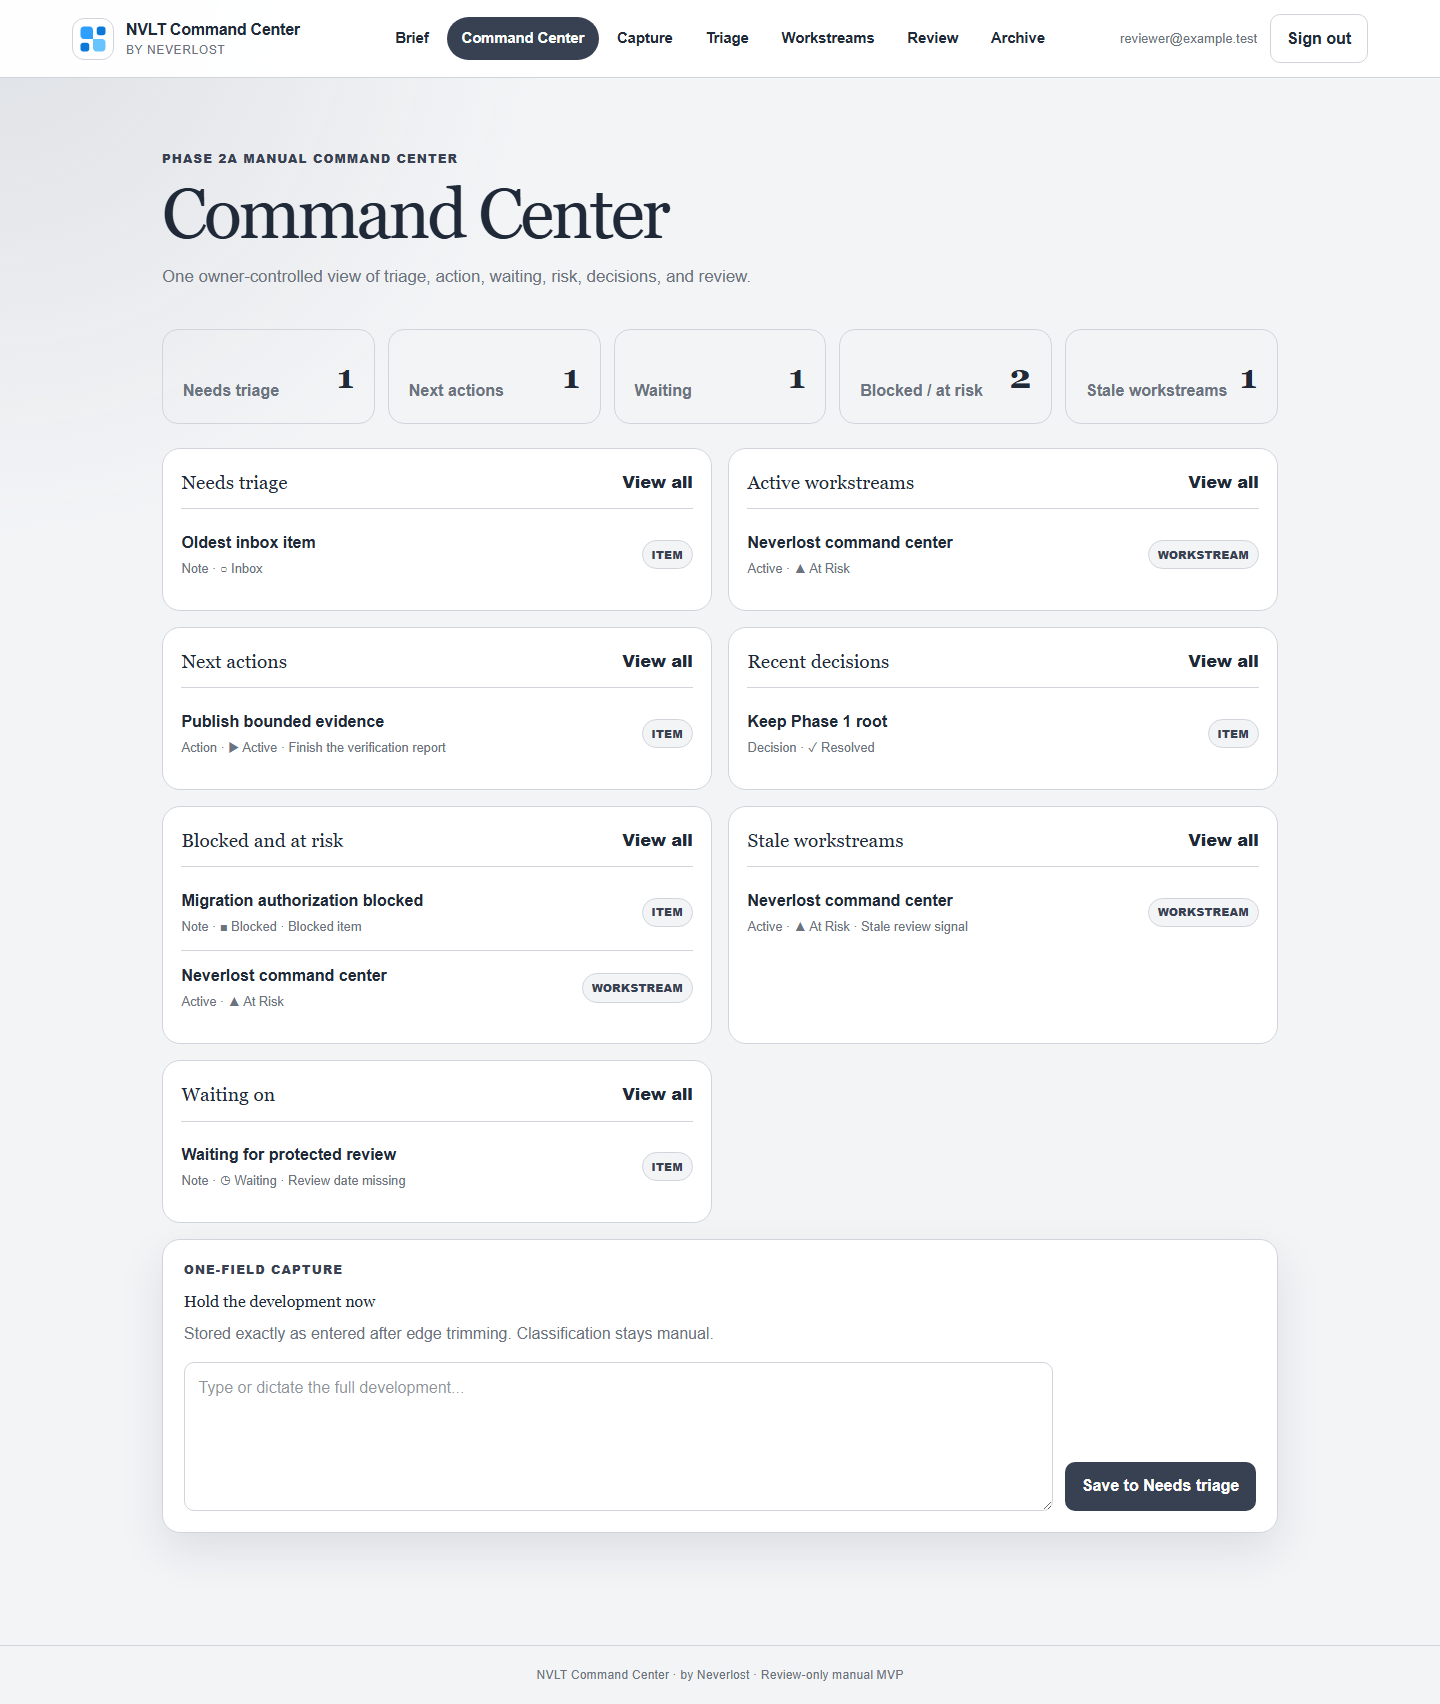
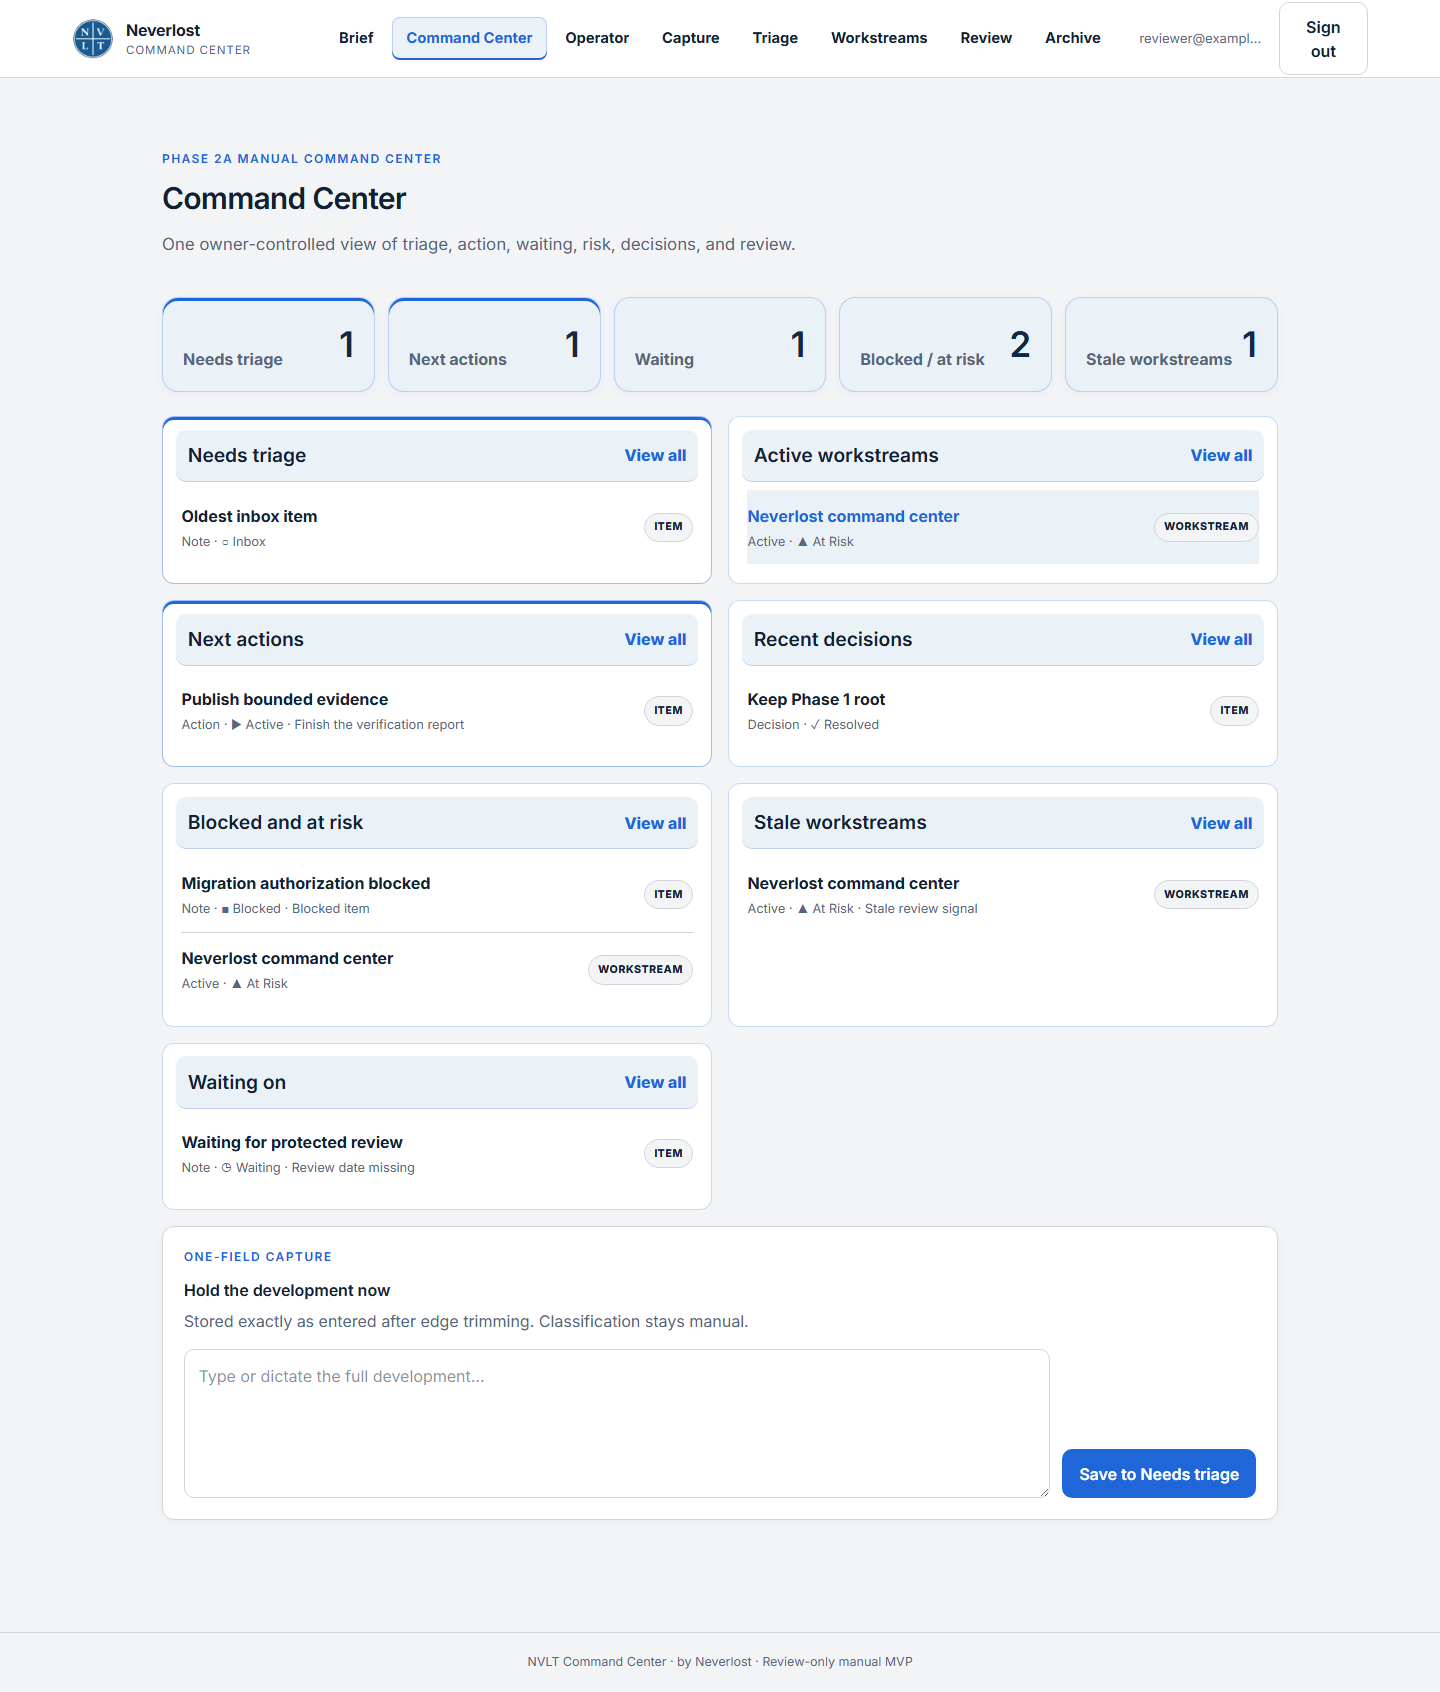
Polish Neverlost blue visual hierarchy

diff --git a/app/globals.css b/app/globals.css
@@ -19,6 +19,8 @@
   --primary-dark: #102844;
   --interactive-hover: #1854b5;
   --info-surface: #eaf2f8;
+  --blue-border: rgba(31, 102, 216, 0.24);
+  --blue-border-strong: rgba(31, 102, 216, 0.42);
   --surface: #f3f4f6;
   --white: #ffffff;
   --shadow: 0 2px 8px rgba(18, 32, 51, 0.04);
@@ -84,7 +86,7 @@ a {
 .app-header {
   align-items: center;
   background: var(--white);
-  border-bottom: 1px solid var(--line);
+  border-bottom: 1px solid var(--blue-border);
   display: grid;
   gap: 1.5rem;
   grid-template-columns: 1fr auto 1fr;
@@ -100,9 +102,9 @@ a {
 
 .brand-mark {
   align-items: center;
-  background: var(--white);
-  border: 1px solid var(--line);
-  border-radius: 12px;
+  background: transparent;
+  border: 0;
+  border-radius: 50%;
   display: inline-flex;
   height: 42px;
   justify-content: center;
@@ -111,9 +113,10 @@ a {
 }
 
 .brand-mark img {
+  border-radius: 50%;
   display: block;
-  height: 30px;
-  width: 30px;
+  height: 40px;
+  width: 40px;
 }
 
 .brand div {
@@ -154,7 +157,7 @@ a {
 .app-header nav a[aria-current="page"] {
   background: var(--info-surface);
   color: var(--primary);
-  box-shadow: inset 0 -2px var(--primary);
+  box-shadow: inset 0 -2px var(--primary), inset 0 0 0 1px var(--blue-border);
 }
 
 .account {
@@ -254,9 +257,19 @@ h3 {
 }
 
 .button-secondary {
-  background: var(--surface);
-  border-color: var(--line);
-  color: var(--primary-dark);
+  background: var(--info-surface);
+  border-color: var(--blue-border);
+  color: var(--primary);
+}
+
+.button-secondary:hover {
+  background: rgba(31, 102, 216, 0.14);
+  border-color: var(--blue-border-strong);
+}
+
+.button-quiet:hover {
+  background: var(--info-surface);
+  border-color: var(--blue-border);
 }
 
 .button-quiet {
@@ -500,6 +513,14 @@ h3 {
   min-height: 46px;
   padding: 0.8rem 0.9rem;
   width: 100%;
+}
+
+.field input:focus-visible,
+.field textarea:focus-visible,
+.field select:focus-visible,
+.operator-ask input:focus-visible,
+.quick-capture textarea:focus-visible {
+  border-color: var(--primary);
 }
 
 .field textarea {
@@ -815,6 +836,20 @@ h3 {
   min-height: 90px;
 }
 
+.command-counts .summary-card {
+  background: var(--info-surface);
+  border-color: var(--blue-border);
+  box-shadow: 0 2px 8px rgba(31, 102, 216, 0.06);
+}
+
+.command-counts .summary-card:nth-child(-n + 2) {
+  box-shadow: inset 0 3px var(--primary), 0 2px 8px rgba(31, 102, 216, 0.06);
+}
+
+.command-counts .summary-card strong {
+  color: var(--primary-dark);
+}
+
 .command-grid {
   display: grid;
   gap: 1rem;
@@ -822,17 +857,35 @@ h3 {
 }
 
 .command-section {
+  border-color: var(--blue-border);
   box-shadow: none;
   padding: 1.15rem;
 }
 
 .command-section .section-heading {
+  background: var(--info-surface);
+  border-bottom-color: var(--blue-border);
+  border-radius: 10px;
   justify-content: space-between;
-  margin-bottom: 0.5rem;
+  margin: -0.35rem -0.35rem 0.5rem;
+  padding: 0.7rem 0.75rem;
 }
 
 .command-section .section-heading h2 {
   font-size: 1.2rem;
+}
+
+.command-section .section-heading span {
+  background: var(--white);
+  border: 1px solid var(--blue-border);
+  color: var(--primary);
+}
+
+/* The accepted dashboard order places Needs triage first and Next actions third. */
+.command-grid > .command-section:nth-child(1),
+.command-grid > .command-section:nth-child(3) {
+  border-color: var(--blue-border-strong);
+  box-shadow: inset 0 3px var(--primary);
 }
 
 .command-rows {
@@ -920,9 +973,14 @@ h3 {
 
 .workstream-list .command-row {
   background: white;
-  border: 1px solid var(--line);
+  border: 1px solid var(--blue-border);
   border-radius: 12px;
+  box-shadow: 0 2px 8px rgba(31, 102, 216, 0.04);
   padding: 1rem;
+}
+
+.workstream-list .command-row:hover {
+  border-color: var(--blue-border-strong);
 }
 
 .workstream-form,
@@ -943,6 +1001,9 @@ h3 {
 }
 
 .preserved-entry {
+  background: var(--info-surface);
+  border-color: var(--blue-border);
+  box-shadow: inset 4px 0 var(--primary), var(--shadow);
   overflow-wrap: anywhere;
   padding: 1.5rem;
   position: sticky;
@@ -1081,6 +1142,9 @@ h3 {
 
 /* Operator v0.1: deterministic read-only attention layer. */
 .operator-ask {
+  background: var(--info-surface);
+  border-color: var(--blue-border);
+  box-shadow: inset 0 3px var(--primary), var(--shadow);
   display: grid;
   gap: 1rem;
   margin-bottom: 1.5rem;
@@ -1140,15 +1204,20 @@ h3 {
 }
 
 .operator-proposals {
+  border-color: var(--blue-border);
   padding: 1.25rem;
 }
 
 .operator-proposals .section-heading {
   align-items: start;
+  background: var(--info-surface);
+  border-bottom-color: var(--blue-border);
+  border-radius: 11px 11px 0 0;
   display: flex;
   gap: 1rem;
   justify-content: space-between;
-  margin-bottom: 0.75rem;
+  margin: -1.25rem -1.25rem 0.75rem;
+  padding: 1rem 1.25rem;
 }
 
 .operator-proposals h2 {
@@ -1156,10 +1225,10 @@ h3 {
 }
 
 .operator-authority {
-  background: var(--surface);
-  border: 1px solid var(--line);
+  background: var(--white);
+  border: 1px solid var(--primary);
   border-radius: 999px;
-  color: var(--primary-dark);
+  color: var(--primary);
   font-size: 0.68rem;
   font-weight: 800;
   letter-spacing: 0.06em;
@@ -1170,19 +1239,22 @@ h3 {
 
 .operator-proposal-list {
   display: grid;
+  gap: 0.75rem;
 }
 
 .operator-proposal {
   align-items: center;
-  border-top: 1px solid var(--line);
+  background: var(--info-surface);
+  border: 1px solid var(--blue-border);
+  border-radius: 10px;
   display: grid;
   gap: 1rem;
   grid-template-columns: 1fr auto;
-  padding: 1.05rem 0;
+  padding: 1rem;
 }
 
 .operator-proposal:first-child {
-  border-top: 0;
+  border-top: 1px solid var(--blue-border);
 }
 
 .operator-proposal small {
@@ -1210,10 +1282,15 @@ h3 {
 }
 
 .operator-boundary {
-  color: var(--muted);
+  background: var(--info-surface);
+  border: 1px solid var(--blue-border);
+  border-radius: 10px;
+  color: var(--primary-dark);
   font-size: 0.8rem;
   line-height: 1.5;
-  margin: 1.25rem 0 0;
+  margin: 1.25rem auto 0;
+  max-width: 58rem;
+  padding: 0.75rem 1rem;
   text-align: center;
 }
 

diff --git a/app/demo/demo.css b/app/demo/demo.css
@@ -33,7 +33,7 @@
 .demo-notice {
   align-items: center;
   background: var(--info-surface);
-  border-bottom: 1px solid var(--line);
+  border-bottom: 1px solid var(--blue-border-strong);
   color: var(--primary-dark);
   display: flex;
   gap: 1rem;
@@ -43,6 +43,7 @@
 }
 
 .demo-notice strong {
+  color: var(--primary);
   font-size: 0.78rem;
   letter-spacing: 0.06em;
   text-transform: uppercase;
@@ -55,7 +56,7 @@
 
 .demo-workspace-message {
   background: var(--info-surface);
-  border-bottom: 1px solid var(--line);
+  border-bottom: 1px solid var(--blue-border);
   color: var(--primary-dark);
   margin: 0;
   padding: 0.75rem 1rem;
